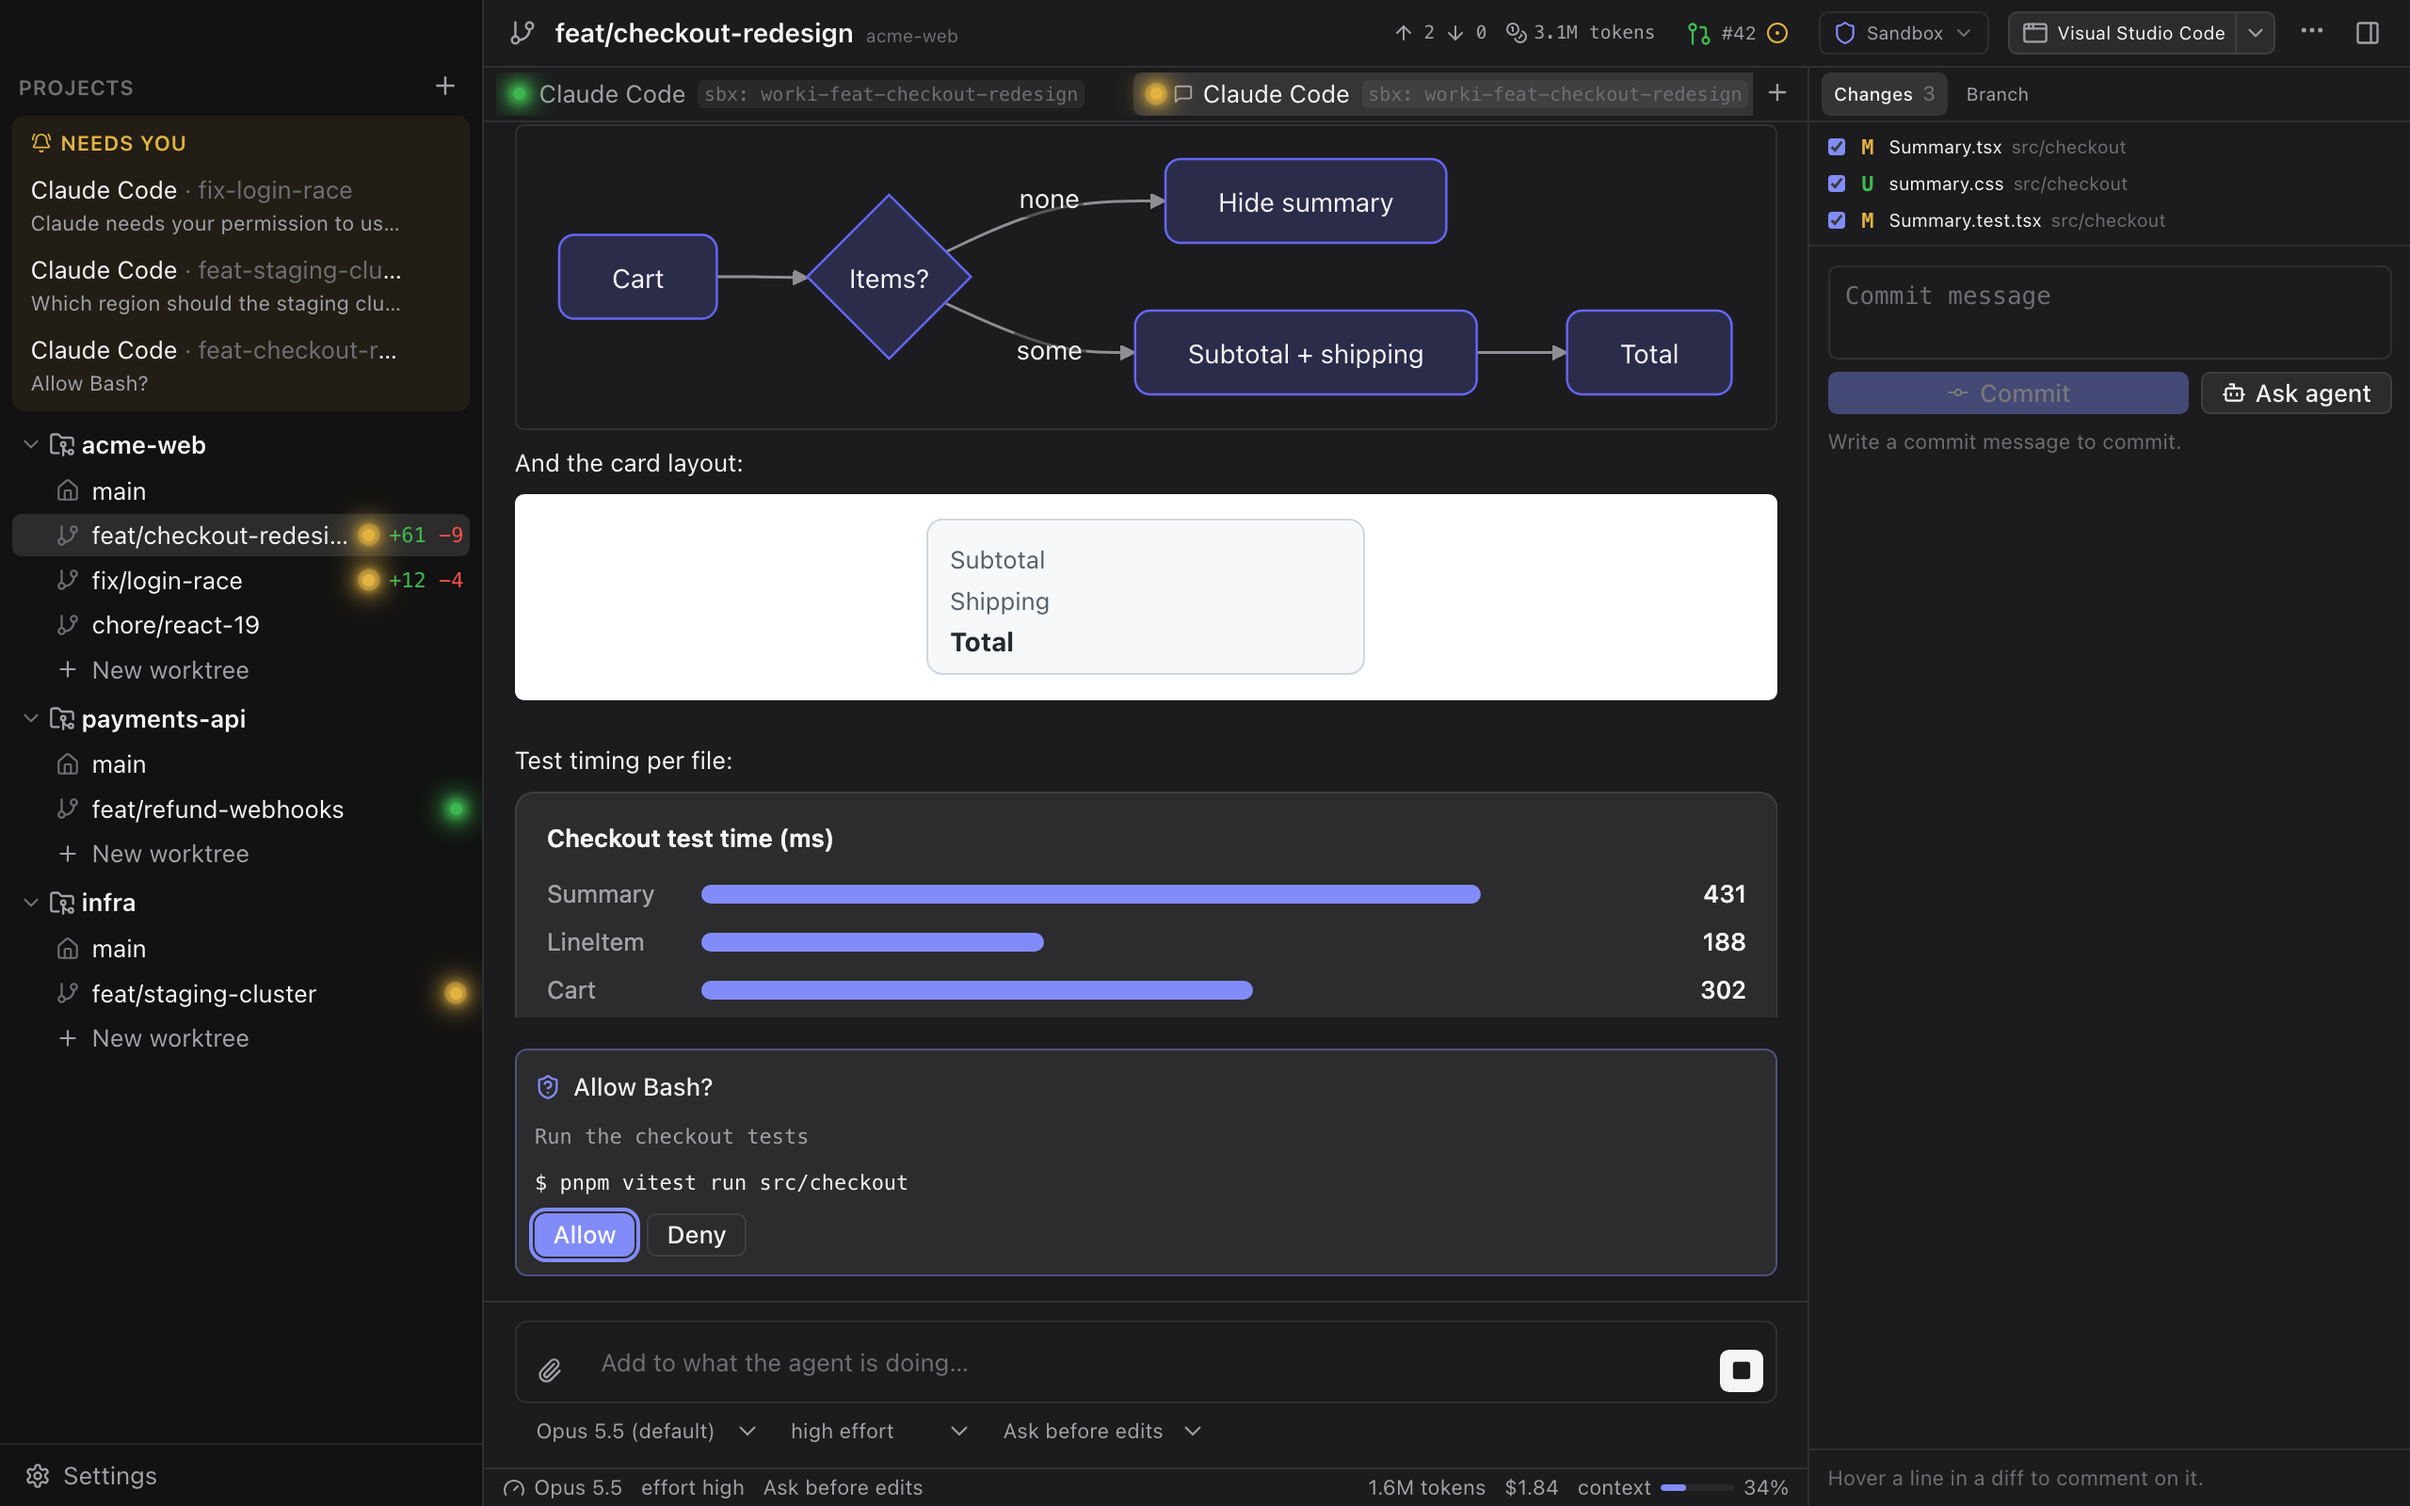
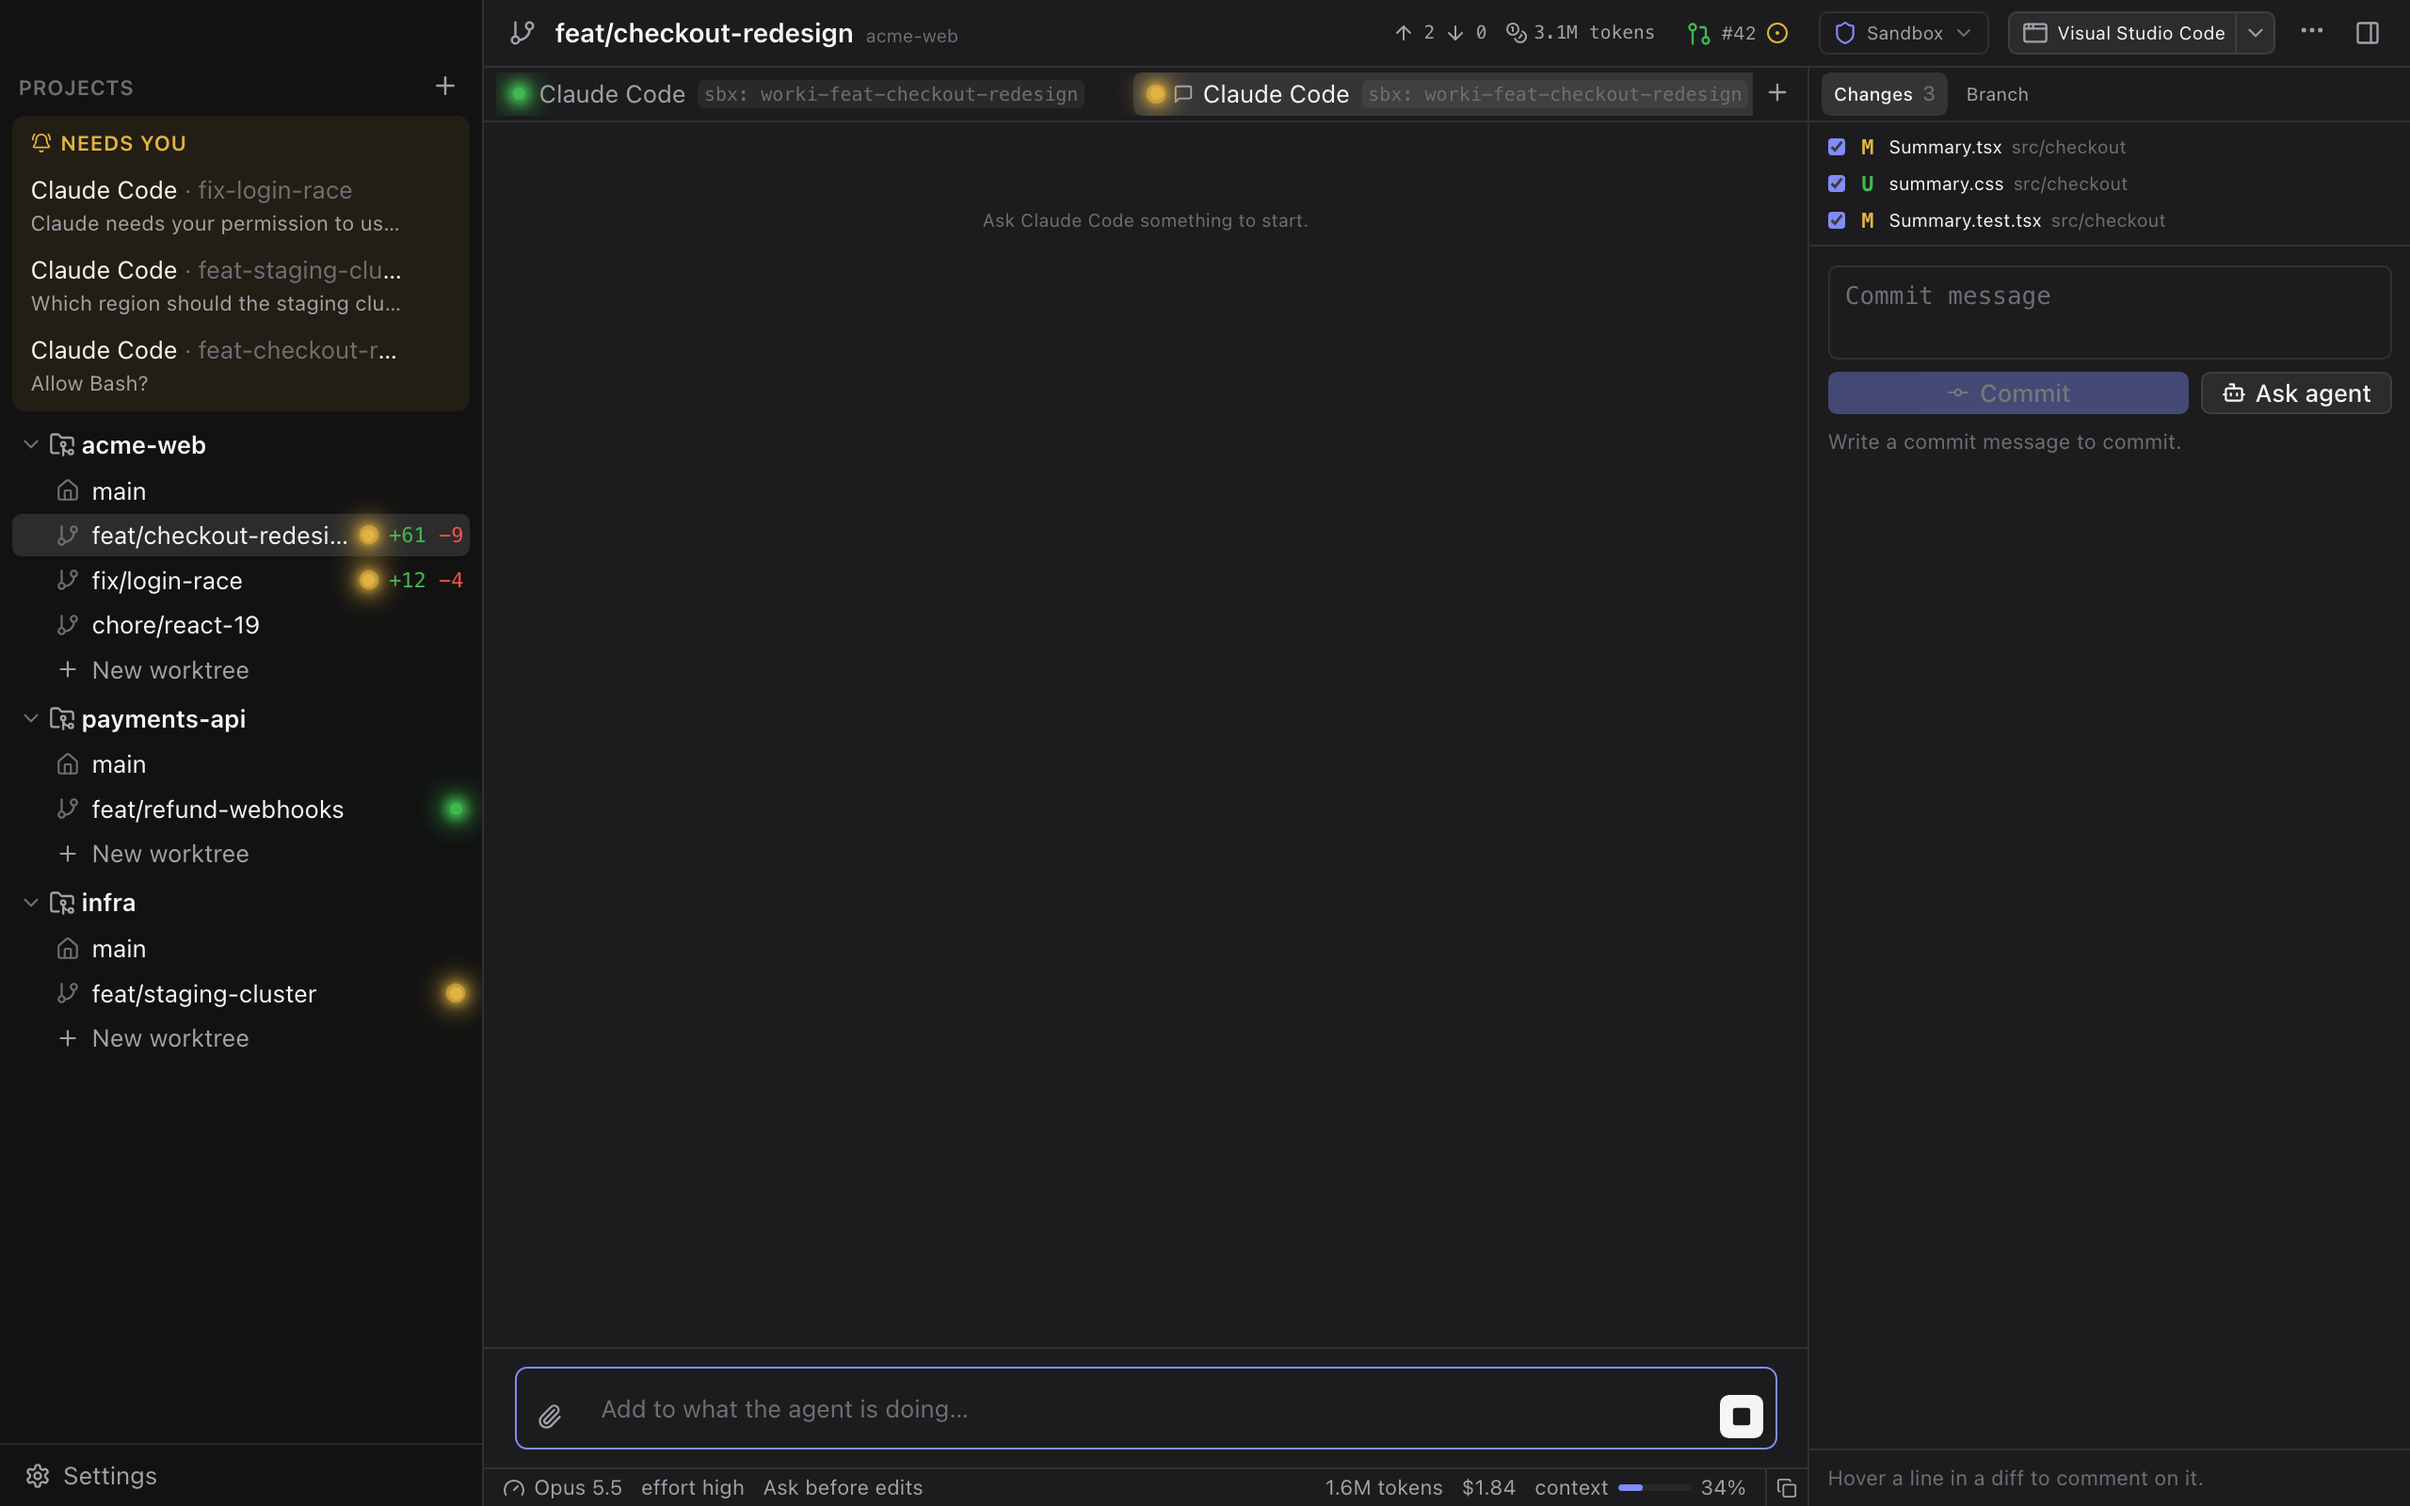
Show the terminal again in the README screenshots
The demo opened its chat tab in every scene since the chat session was added,
so the main screenshot showed an empty chat. Only the chat scene opens it now.

diff --git a/ui/src/demo/main.tsx b/ui/src/demo/main.tsx
@@ -411,7 +411,7 @@ const ui = {
   theme: "dark",
   terminalFontSize: 13,
   reopenSessions: true,
-  activeSession: scene === "chat" ? { [checkout]: "s5" } : {},
+  activeSession: { [checkout]: scene === "chat" ? "s5" : "s1" },
   showCommits: true,
   showPullRequests: true,
 };
